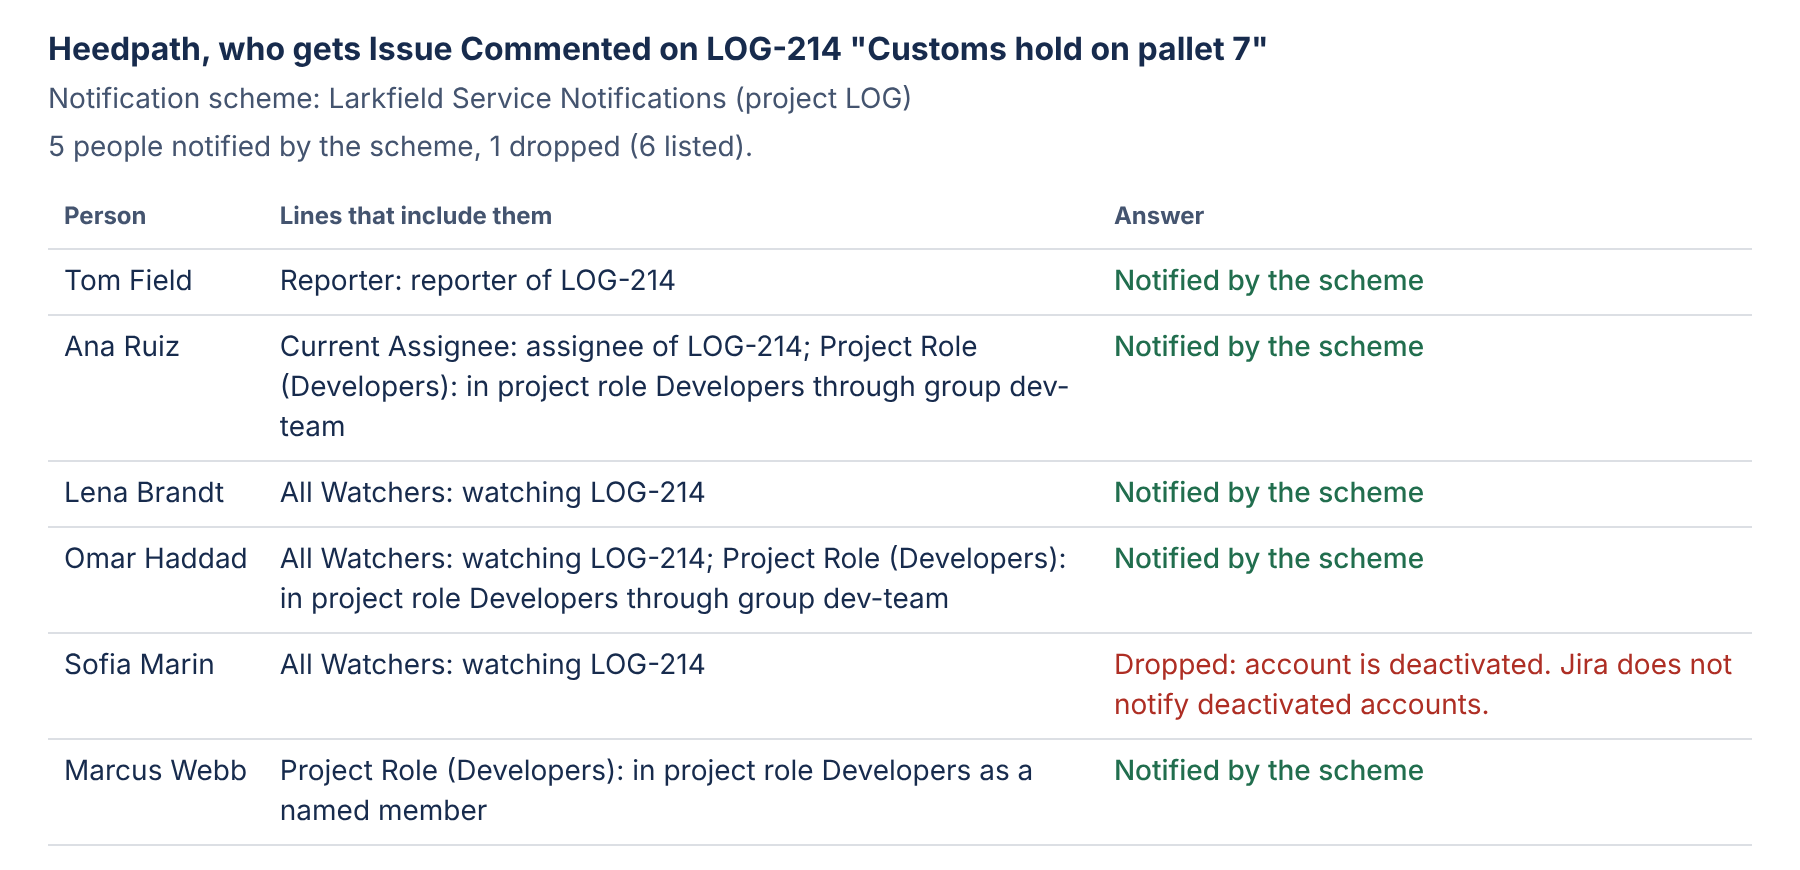
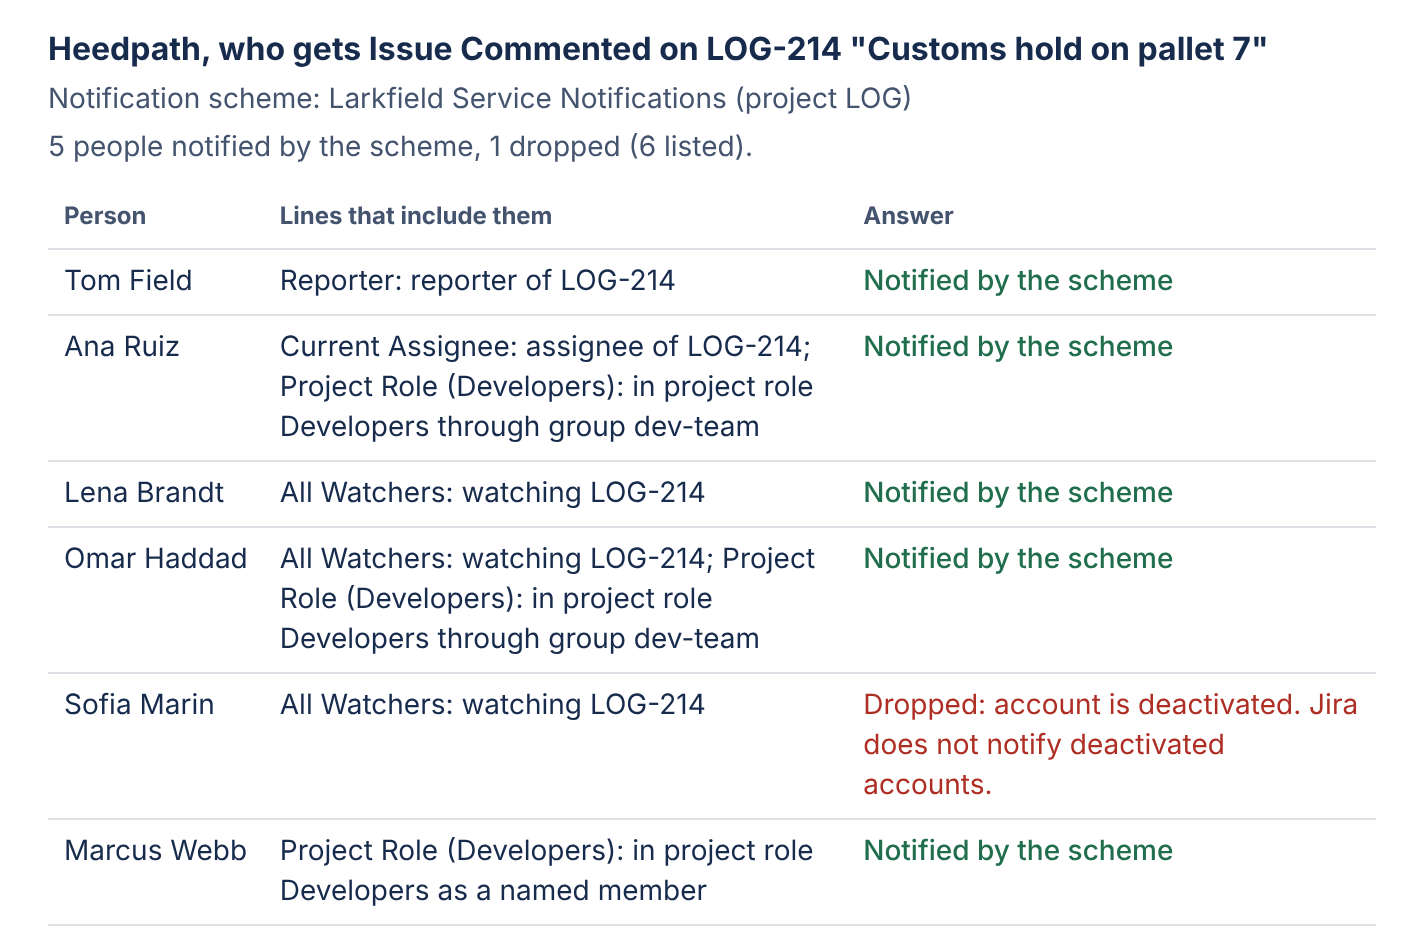
Heedpath page (1.2.1): exact prices above 100 users with a 240-user example, portal-customer limit in the first screen and Known limits, Who gets this at the column's text size with corrected alt text, plainer test wording, 'nothing stored about people or issues' (customer gate 2)

diff --git a/heedpath-notification-checker/index.html b/heedpath-notification-checker/index.html
@@ -4,7 +4,7 @@
 <meta charset="utf-8">
 <meta name="viewport" content="width=device-width, initial-scale=1">
 <title>Heedpath – Notification Checker for Jira: who gets notified, and why</title>
-<meta name="description" content="Heedpath for Jira Cloud: pick an issue, a person and an event, and see whether the notification scheme and permissions send it to them, with the line that decides it. Free for up to 10 users, then $0.20 per user per month.">
+<meta name="description" content="Heedpath for Jira Cloud: pick an issue, a person and an event, and see whether the notification scheme and permissions send it to them, with the line that decides it. Free for up to 10 users, then $0.04 to $0.20 per user per month by site size.">
 <link rel="canonical" href="https://ochrestack.com/heedpath-notification-checker/">
 <meta property="og:type" content="website">
 <meta property="og:site_name" content="Ochrestack">
@@ -47,7 +47,7 @@
   .benefits li { margin: 8px 0; }
   figure img.shot { background: #fff; }
   .scroll-x { overflow-x: auto; }
-  @media (max-width: 600px) { .scroll-x img.wide { width: 640px; max-width: none; } }
+  @media (max-width: 600px) { .scroll-x img.wide { width: 712px; max-width: none; } }
   .narrow-only { display: none; }
   .fine { font-size: 15px; color: var(--muted); }
   details { margin: 8px 0 24px; font-size: 15px; color: var(--muted); }
@@ -77,7 +77,7 @@
       <source media="(max-width: 600px)" srcset="img/answer-grace-narrow.png" width="800" height="1216">
       <img class="shot" src="img/answer-grace.png" alt="Heedpath's answer screen: Heedpath check: LOG-215 Refund for damaged crate, Grace Okafor, Issue Updated. Answer: Not notified by the scheme. Deciding line: All Watchers: watching LOG-215, but cannot browse LOG-215: Grace Okafor has Browse Projects in project LOG, but is not allowed by issue security level Internal only. Below it the scheme lines (Current Assignee does not include her, All Watchers includes her), Access to LOG-215 (cannot browse) and Account (active, with Jira product access)." width="1440" height="880">
     </picture>
-    <figcaption>Grace watches LOG-215, but issue security leaves her out. This is Heedpath's own screen from the 1.2.0 build, run in Chromium outside Jira on the sample company in its test suite; in Jira it opens under Jira settings &gt; Apps &gt; Heedpath (<a href="quick-start.html#reading">the whole answer as text</a>).</figcaption>
+    <figcaption>Grace watches LOG-215, but issue security leaves her out. Heedpath's own screen (1.2.1), run outside Jira on the sample company in its tests; in Jira it opens under Jira settings &gt; Apps &gt; Heedpath (<a href="quick-start.html#reading">the answer as text</a>).</figcaption>
   </figure>
 
   <ul class="benefits">
@@ -87,12 +87,12 @@
   </ul>
 
   <div class="buy">
-    <p class="price"><strong>Free for up to 10 users. $0.20 per user per month for 11–100 users</strong> (15 users, annual: $30), and never more than $0.20 per user above 100 users. One edition; Atlassian bills it.</p>
+    <p class="price"><strong>Free for up to 10 users. Then, per user per month: $0.20 for 11–100 users, $0.10 for 101–250, $0.06 for 251–1,000, $0.04 above 1,000.</strong> 15 users, annual: $30; 240 users, monthly: $24. One edition; Atlassian bills it.</p>
     <!-- Until the listing URL exists there is no Marketplace link. When Atlassian approves the listing, replace this button with
          <a class="button" id="buy" href="LISTING-URL">Get it on the Atlassian Marketplace</a> and drop the note. -->
     <p><a class="button" id="buy" href="mailto:support@ochrestack.com?subject=Heedpath%20on%20the%20Atlassian%20Marketplace" aria-describedby="buy-note">Email me when it's on the Marketplace</a></p>
-    <p class="note" id="buy-note"><strong>Coming to the Atlassian Marketplace.</strong> It cannot be installed yet. The button opens an email to us; we write back once when Heedpath is listed.</p>
-    <p class="fine">Jira Cloud, company-managed projects · tested: 170 automated tests pass on version 1.2.0 against a model of Jira Cloud's API, <strong>not yet on a live Jira site</strong> (<a href="#tested">details</a>) · source not included (commercial; installs from the Marketplace) · read-only · <a href="mailto:support@ochrestack.com">support@ochrestack.com</a></p>
+    <p class="note" id="buy-note"><strong>Coming to the Atlassian Marketplace.</strong> It cannot be installed yet. Email us with the button and we write back once when it is listed.</p>
+    <p class="fine">Jira Cloud, company-managed projects · for agents and internal users, not emails to Jira Service Management portal customers · tested: 173 automated tests pass on version 1.2.1, outside Jira, <strong>not yet on a live Jira site</strong> (<a href="#tested">details</a>) · source not included (commercial; installs from the Marketplace) · read-only · <a href="mailto:support@ochrestack.com">support@ochrestack.com</a></p>
   </div>
 
   <h2 id="how">How it works</h2>
@@ -108,21 +108,21 @@
 
   <h2 id="who-gets-this">Everyone one event reaches</h2>
   <figure>
-    <div class="scroll-x"><img class="shot wide" src="img/who-gets-this.png" alt="Heedpath's Who gets this screen for Issue Commented on LOG-214 Customs hold on pallet 7: 5 people notified by the scheme, 1 dropped (6 listed). Tom Field through Reporter; Ana Ruiz through Current Assignee and Project Role Developers through group dev-team; Lena Brandt and Omar Haddad through All Watchers; Marcus Webb as a named member of Developers; Sofia Marin, watching, marked Dropped: account is deactivated." width="1800" height="870" loading="lazy"></div>
-    <figcaption>Who gets Issue Commented on LOG-214, and why Sofia does not. Heedpath's own screen, from the same 1.2.0 build outside Jira.</figcaption>
+    <div class="scroll-x"><img class="shot wide" src="img/who-gets-this.png" alt="Heedpath's Who gets this screen for Issue Commented on LOG-214 Customs hold on pallet 7: 5 people notified by the scheme, 1 dropped (6 listed). Tom Field through Reporter; Ana Ruiz through Current Assignee and Project Role Developers through group dev-team; Lena Brandt through All Watchers; Omar Haddad through All Watchers and Project Role Developers through group dev-team; Marcus Webb as a named member of Developers; Sofia Marin, watching, marked Dropped: account is deactivated." width="1424" height="950" loading="lazy"></div>
+    <figcaption>Who gets Issue Commented on LOG-214, and why Sofia does not. Same build, outside Jira.</figcaption>
   </figure>
 
   <h2 id="scope">What Jira already does</h2>
-  <p>Jira already lets an admin find the answer by hand: open the project's notification scheme, read the event's row, then check the person against each entry (role members on the People page, group members in user management, the issue's watchers, custom field values), then check their access with the Permission helper. Atlassian's own recommendation since the 2024 removal is to log in as the person and look at their notification settings. For one simple case on a small site that is enough. Heedpath does the whole chain in one answer, lists everyone an event reaches, and names customer accounts, deactivated accounts and accounts without Jira access.</p>
+  <p>Jira already lets an admin find the answer by hand: open the project's notification scheme, read the event's row, then check the person against each entry (role members on the People page, group members in user management, the issue's watchers, custom field values), then check their access with the Permission helper. Atlassian's own recommendation since the 2024 removal is to log in as the person and look at their notification settings. For one simple case on a small site that is enough. Heedpath does the whole chain in one answer, and names customer and deactivated accounts and those without Jira access.</p>
 
   <h2 id="limits">Known limits</h2>
-  <p>Reads configuration, not deliveries; every answer lists what it cannot see. Company-managed projects only: team-managed projects get Cannot tell, with the reason. Jira admins, English. <a href="quick-start.html">Quick start</a>.</p>
+  <p>Reads configuration, not deliveries; every answer lists what it cannot see. Not for emails to Jira Service Management portal customers: those follow the service project's Customer notifications, which Heedpath does not read. Company-managed projects only: team-managed projects get Cannot tell, with the reason. Jira admins, English. <a href="quick-start.html">Quick start</a>.</p>
 
   <h2 id="tested">How we tested</h2>
-  <p>170 automated tests pass headless on version 1.2.0 (Node 22, Linux) against a model of Jira Cloud's REST API, and 14 checks pass with Heedpath's screen in Chromium on Linux, outside Jira. <strong>Untested so far:</strong> a live Jira site, and Windows or macOS browsers. The images on this page are Heedpath's own screen outside Jira; screenshots inside Jira will be added after that first live-site run, which has not happened yet.</p>
+  <p>On Linux, outside Jira: 173 automated tests pass on version 1.2.1 against a simulated Jira Cloud site built from Atlassian's API reference, and 15 checks pass with Heedpath's screen in Chromium. <strong>Untested so far:</strong> a live Jira site, and Windows or macOS browsers. Screenshots inside Jira come after that first live-site run, which has not happened yet.</p>
 
   <h2 id="privacy">Privacy and support</h2>
-  <p>No external hosts, 23 read-only permissions, nothing stored, no telemetry (<a href="../privacy.html">privacy policy</a>). Support: <a href="mailto:support@ochrestack.com">support@ochrestack.com</a>.</p>
+  <p>No external hosts, 23 read-only permissions, nothing stored about people or issues, no telemetry (<a href="../privacy.html">privacy policy</a>). Support: <a href="mailto:support@ochrestack.com">support@ochrestack.com</a>.</p>
 </main>
 <footer>
   <a href="../guides/">Guides</a>

diff --git a/index.html b/index.html
@@ -44,7 +44,7 @@
   <p><a href="wholegrip/">Wholegrip for Blender</a>: makes a collection you already have work like one object. One click selects all of it, child collections included; one modifier stack stays in step on every part, Geometry Nodes inputs too; one Outliner entry includes or excludes it in every view layer. Blender 4.2 LTS to 5.2 LTS, tested on 4.2, 4.5, 5.0, 5.1 and 5.2 (Linux; Windows and macOS not tested yet); $12 once, every future version included. Source ships with purchase.</p>
   <p><a href="attachkeep/">Attachkeep for Confluence</a>: finds the Confluence Cloud attachments no page, blog post, comment or diagram on your site refers to, including uploads from people who have left, and moves the ones you choose to the space trash after a preview and a dry run. Free for up to 10 users; coming to the Atlassian Marketplace.</p>
   <p><a href="labelkeep/">Labelkeep for Jira</a>: lists every label on your Jira Cloud site with its issue count and groups duplicate spellings, then deletes, renames or merges labels on every issue the app can access, with a preview and a dry run first, in the background, naming Jira's reason and the fix for any issue that fails. Free; coming to the Atlassian Marketplace.</p>
-  <p><a href="heedpath-notification-checker/">Heedpath – Notification Checker for Jira</a>: pick an issue, a person and an event, and see whether the notification scheme and permissions send it to them, with the line that decides it; or list everyone one event reaches, and who drops out and why. Read-only, for Jira Cloud admins. Free for up to 10 users, then $0.20 per user per month for 11–100 users and never more above 100; coming to the Atlassian Marketplace, not installable yet.</p>
+  <p><a href="heedpath-notification-checker/">Heedpath – Notification Checker for Jira</a>: pick an issue, a person and an event, and see whether the notification scheme and permissions send it to them, with the line that decides it; or list everyone one event reaches, and who drops out and why. Read-only, for Jira Cloud admins. Free for up to 10 users, then per user per month $0.20 for 11–100 users, $0.10 for 101–250, $0.06 for 251–1,000 and $0.04 above; coming to the Atlassian Marketplace, not installable yet.</p>
   <p><a href="sortlatch/">Sortlatch for Confluence</a>: keeps a Confluence Cloud page's child pages in A to Z order, permanently. New, renamed and moved pages go to their place within minutes, with numbers in natural order, Z to A, newest or oldest first, pins, a preview and undo. Free for up to 10 users; coming to the Atlassian Marketplace.</p>
   <p><a href="xsdtrail/">Xsdtrail for XSD and WSDL</a>: a Design tab for XML Schema and WSDL files in IntelliJ IDEA and other JetBrains IDEs (2025.1 and later). A schema split across many files opens as one diagram, each box labelled with its file, and a double-click opens the declaration. Free for boxes in the open file; $12 once for multi-file schemas and the full WSDL operation view. Coming to JetBrains Marketplace; not submitted yet.</p>
   <p><a href="hexgrain/">Hexgrain: Debugger Hex View</a>: a Java or Kotlin byte array in the IntelliJ IDEA debugger as a hex dump, with offsets, 8, 16 or 32 bytes per row and the characters beside them, and the bytes that changed since the last pause marked. IntelliJ IDEA 2025.3 and later. Free up to 64 KB; $9 once for arrays of any size, more types, a data inspector, Find, Copy As and Save. Source code included. Free download now; Hexgrain is not on JetBrains Marketplace yet, and the licence and trial start when it is.</p>

diff --git a/heedpath-notification-checker/quick-start.html b/heedpath-notification-checker/quick-start.html
@@ -35,7 +35,7 @@
 </header>
 <main>
   <h1>Heedpath quick start</h1>
-  <p>Your first notification check in Jira Cloud, and how to read the answer. Back to the <a href="index.html">Heedpath product page</a>. The images and the answer text below are real: Heedpath 1.2.0's own screen and its Copy answer text, from the shipped build run outside Jira on the sample company in its test suite. Heedpath has not yet run on a live Jira site, so there are no pictures of it inside Jira yet.</p>
+  <p>Your first notification check in Jira Cloud, and how to read the answer. Back to the <a href="index.html">Heedpath product page</a>. The images and the answer text below are real: Heedpath 1.2.1's own screen and its Copy answer text, from the shipped build run outside Jira on the sample company in its test suite. Heedpath has not yet run on a live Jira site, so there are no pictures of it inside Jira yet.</p>
 
   <h2 id="install">Install</h2>
   <ol>
@@ -53,7 +53,7 @@
   </ol>
   <figure id="answer-screen">
     <img src="img/answer-grace.png" alt="Heedpath's answer screen for LOG-215 Refund for damaged crate, Grace Okafor, Issue Updated: Answer: Not notified by the scheme; the deciding line names All Watchers and issue security level Internal only; then the scheme lines, Access to LOG-215 and Account" width="1440" height="880" loading="lazy">
-    <figcaption>Watching is not enough: issue security level “Internal only” leaves Grace out. Heedpath's own screen, 1.2.0, outside Jira.</figcaption>
+    <figcaption>Watching is not enough: issue security level “Internal only” leaves Grace out. Heedpath's own screen, 1.2.1, outside Jira.</figcaption>
   </figure>
 
   <h2 id="reading">Reading the answer</h2>
@@ -100,8 +100,8 @@ What Heedpath cannot see
   <h2 id="who-gets-this">3. Who gets this</h2>
   <p>With an issue and an event chosen, press <strong>Who gets this</strong>. Heedpath lists the people first, each once with every line that includes them, then checks each person's account and access to the issue, 40 people per step, and fills in the last column; progress is shown. People are marked as dropped, with the reason, when they cannot browse the issue, their account is deactivated, it is a customer account, or it has no Jira product access. Groups over 1,000 members are shown by count, with a <strong>Show members</strong> button.</p>
   <figure id="who-screen">
-    <img src="img/who-gets-this.png" alt="Heedpath's Who gets this screen for Issue Commented on LOG-214: Tom Field, Ana Ruiz, Lena Brandt, Omar Haddad and Marcus Webb notified by the scheme, each with their lines; Sofia Marin, watching, marked Dropped: account is deactivated" width="1800" height="870" loading="lazy">
-    <figcaption>Everyone one event reaches, each with their lines, and who drops out, and why. Heedpath's own screen, 1.2.0, outside Jira.</figcaption>
+    <img src="img/who-gets-this.png" alt="Heedpath's Who gets this screen for Issue Commented on LOG-214: Tom Field, Ana Ruiz, Lena Brandt, Omar Haddad and Marcus Webb notified by the scheme, each with their lines; Sofia Marin, watching, marked Dropped: account is deactivated" width="1424" height="950" loading="lazy">
+    <figcaption>Everyone one event reaches, each with their lines, and who drops out, and why. Heedpath's own screen, 1.2.1, outside Jira.</figcaption>
   </figure>
 
   <h2 id="from-the-issue">4. From the issue</h2>
